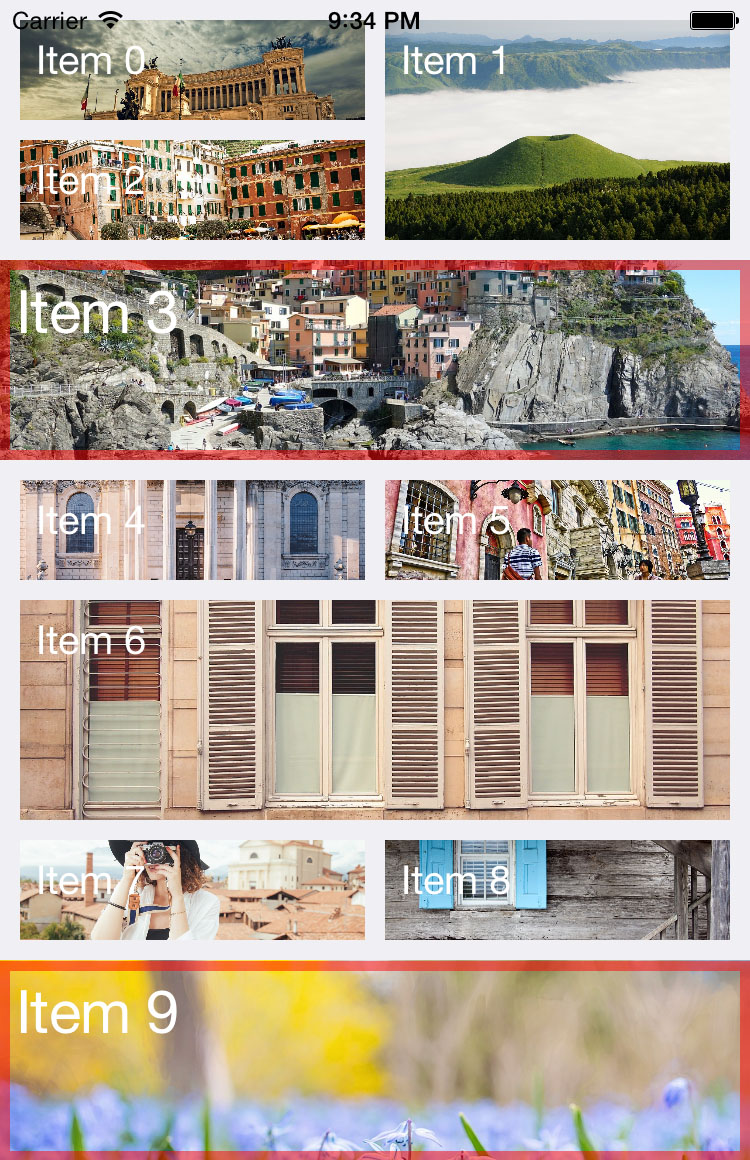
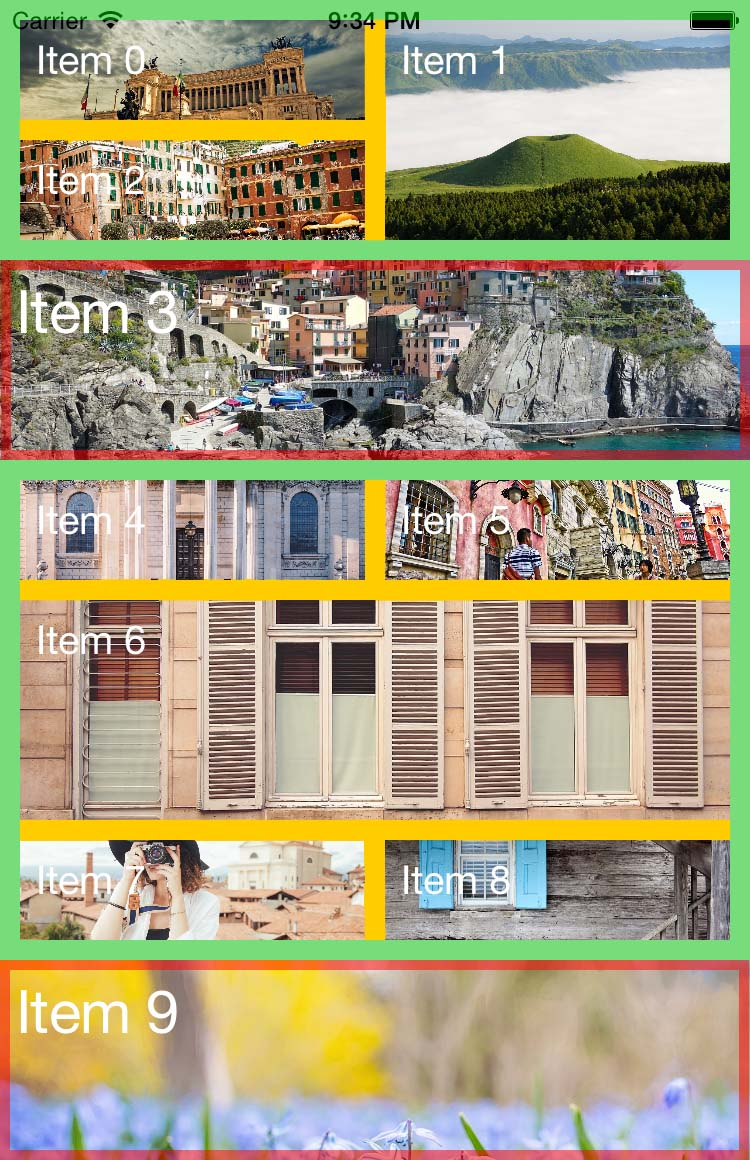
Update layout description

Changed region(s): [[0.0, 0.0, 1.0, 1.0], [0.092, 0.869, 0.1533, 0.9]]

diff --git a/README.md b/README.md
@@ -7,6 +7,14 @@ NVBnbCollectionView is an Airbnb-inspired collection view.
 
 # Demo
 
+## Portrait
+
+![Portrait](https://raw.githubusercontent.com/ninjaprox/Butterfly/master/Demo-portrait.gif)
+
+## Landscape
+
+![Landscpae](https://raw.githubusercontent.com/ninjaprox/Butterfly/master/Demo-landscape.gif)
+
 For first-hand experience, just open the project and run it.
 
 # Installation
@@ -39,7 +47,21 @@ Copy NVBnbCollectionView folder to your project. That's it.
 
 To keep it simple in first version, I use fixed layout as in Airbnb app.
 
+![Layout](https://raw.githubusercontent.com/ninjaprox/Butterfly/master/Layout.jpg)
+
 Cells with red border are parallax cell. Others are grid cell.
+
+Green regions are grid padding `gridPadding`.
+
+Orange regions are cell spacing `gridCellSpacing`.
+
+## Size
+
+In portrait, height of grid cell and parallax cell are specified in `gridCellSize` and `parallaxCellSize` respectively in layout, width will be calculated base on `gridPadding` and collection view width.
+
+In landscape, width of grid cell and parallax cell are specified in `gridCellSize` and `parallaxCellSize` respectively in layout, height will be calculated base on `gridPadding` and collection view height.
+
+This is also applied for others (i.e. header, more loader and spacing between grid cells).
 
 # Usage
 
